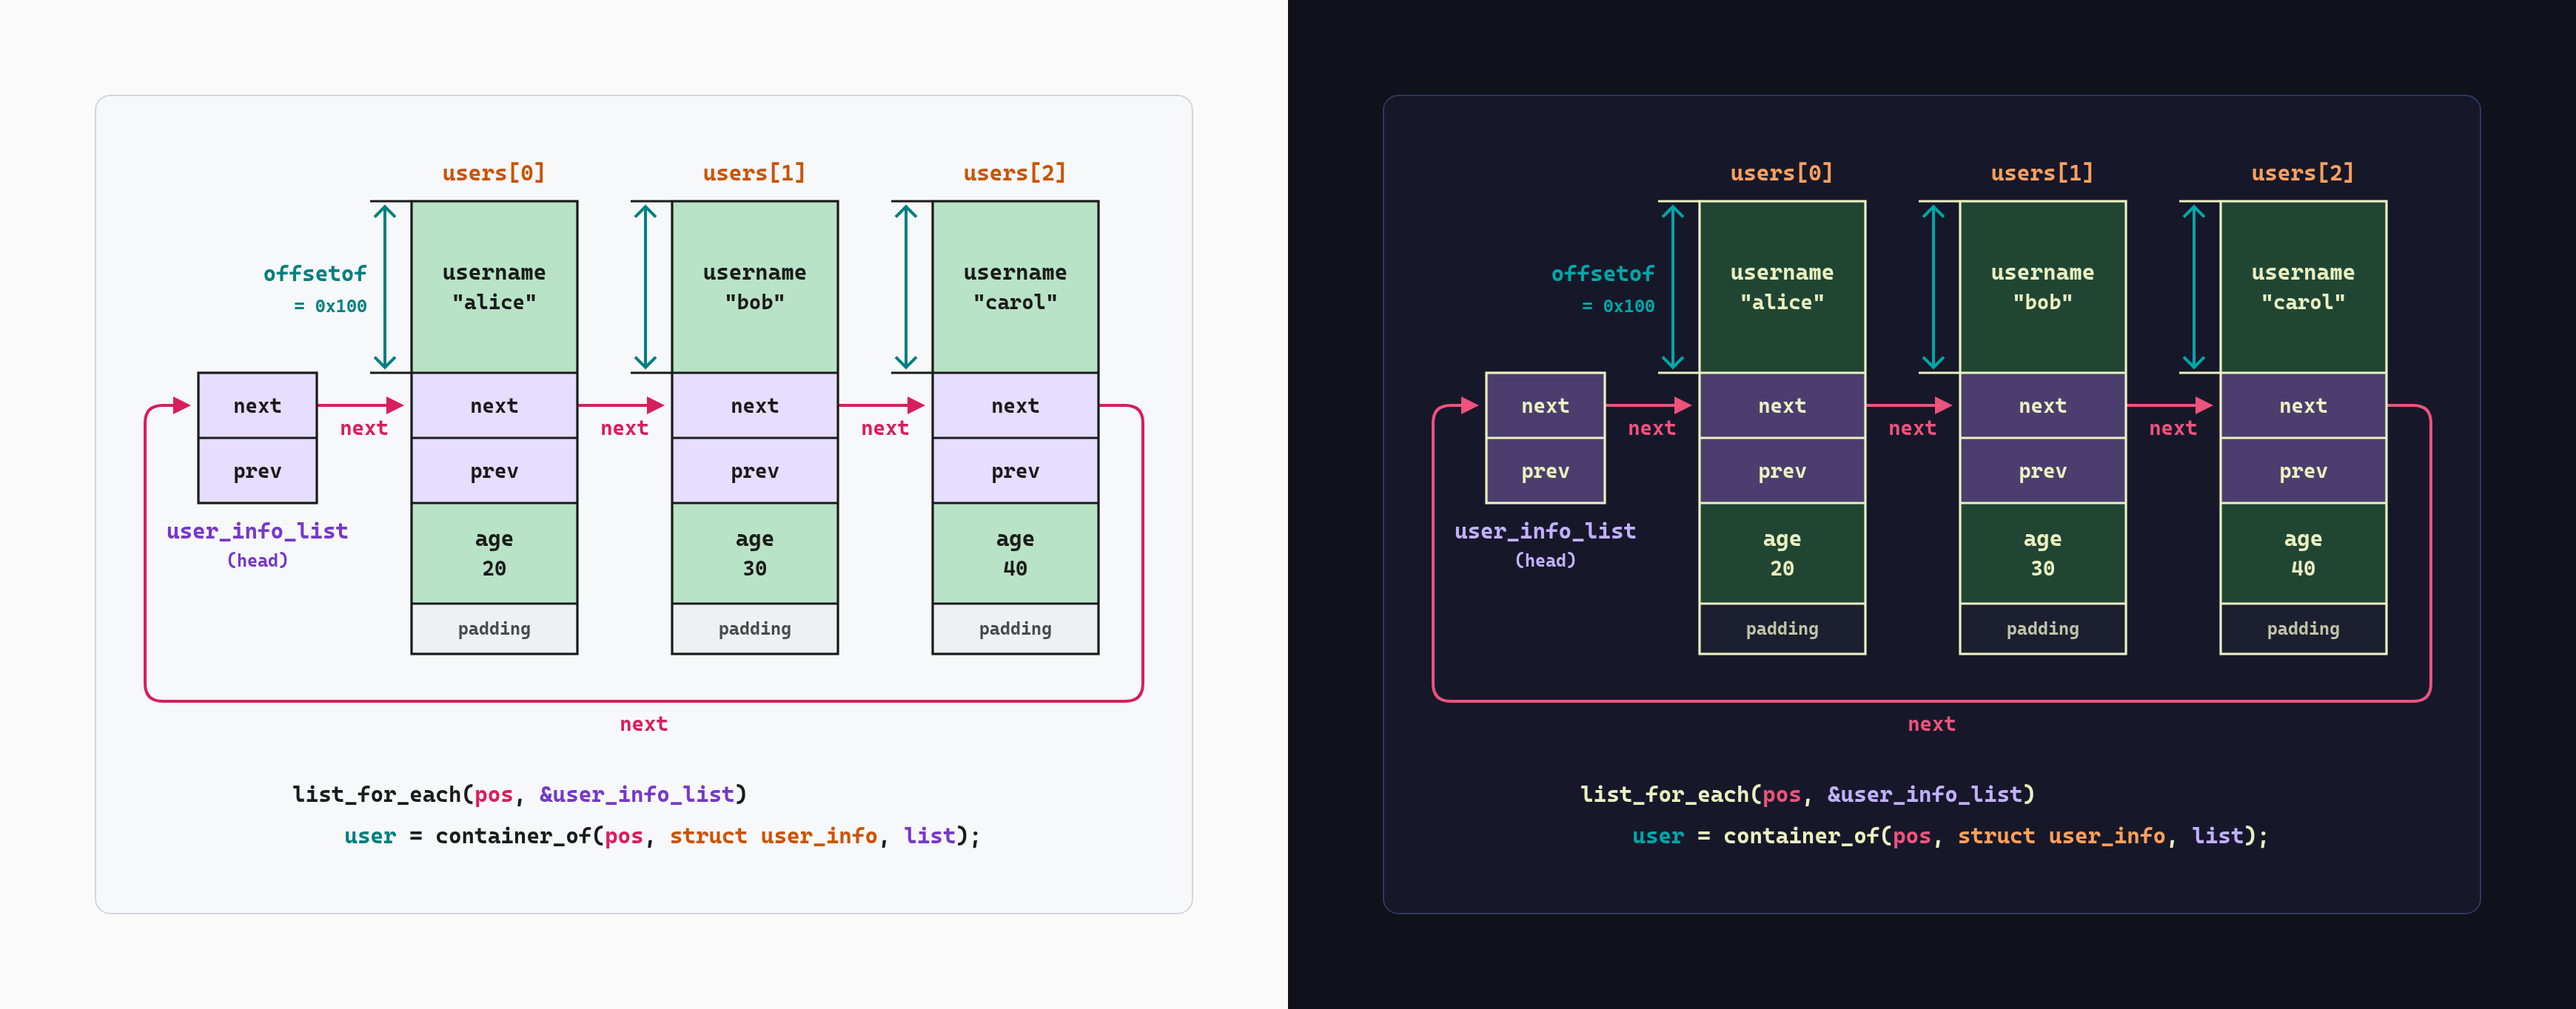
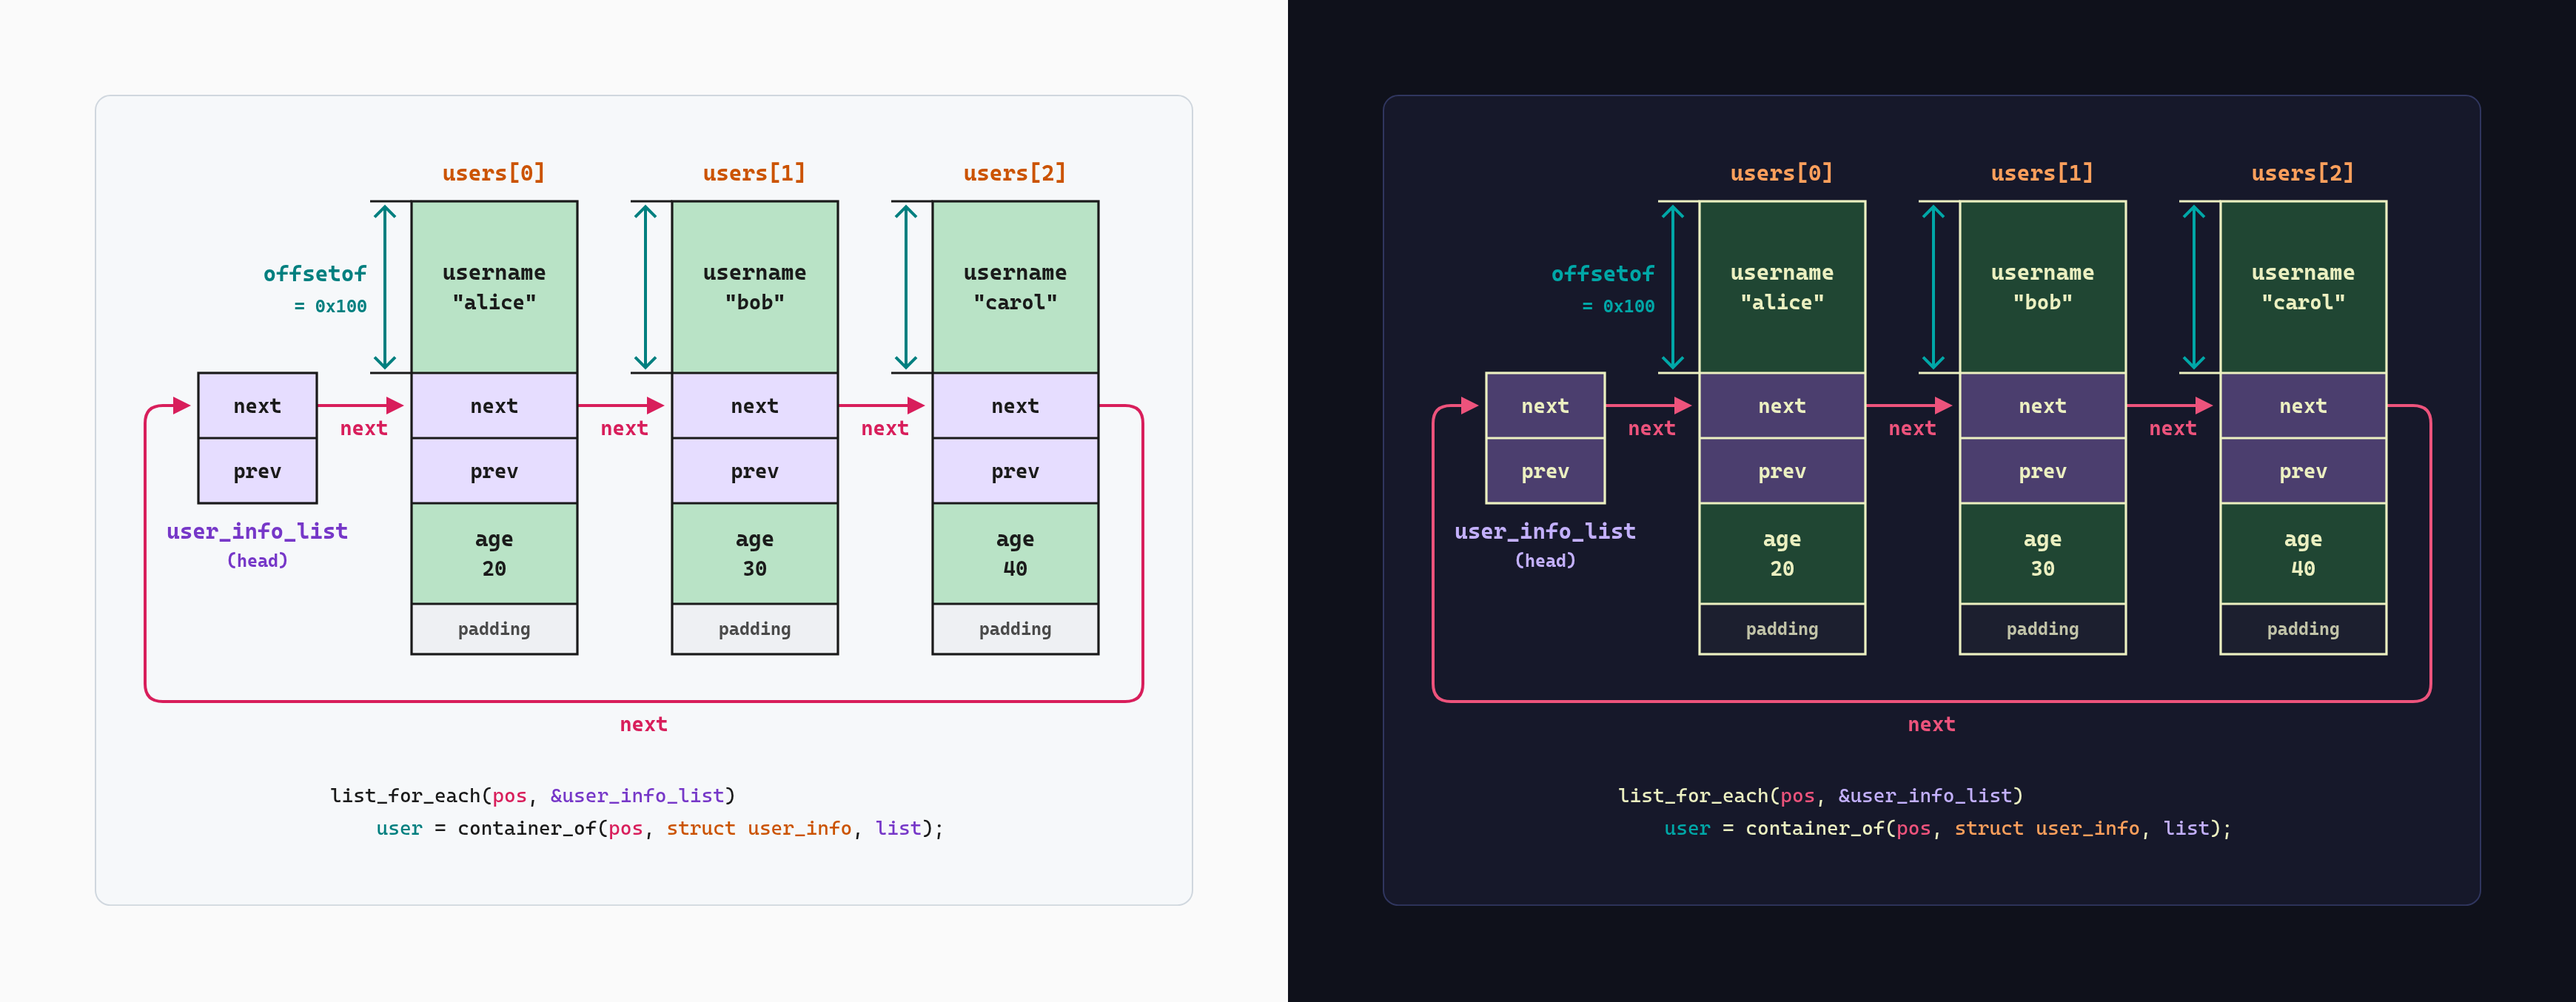
feat: set code lines like the page's code blocks

diff --git a/src/memory-layout.ts b/src/memory-layout.ts
@@ -1,5 +1,5 @@
 import { arrowhead, dimension, DIMENSION_MIN, shaftEnd, triangle } from './arrow.ts';
-import { BORDER, checkText, FONT, round, STROKE, textWidth, tighten, type ProfileName, type Scene, type Shape } from './scene.ts';
+import { BORDER, checkText, CODE_SIZE, CODE_STEP, FONT, round, STROKE, textWidth, tighten, type ProfileName, type Scene, type Shape } from './scene.ts';
 import { checkTone, paint, pieces as tonePieces, type Piece, type Run, type Tone } from './tone.ts';
 import type { Paint } from './tokens.ts';
 
@@ -56,7 +56,7 @@ const RUN = 20, RADIUS = 12, LANE = 24, SIZE = 15, ARROW = 14, ADDRESS = 14;
 const INSIDE = RIGHT - LEFT - 32, OUTSIDE = ADDR - AXIS - 16, AXIS_GAP = 46, FILL = 0.6;
 const SPAN_X = RIGHT + 20, SPAN_BAR = 10, SPAN_BEND = 6, SPAN_LABEL = 14, SEAM = 0.5;
 const LABEL_GAP = 8;
-const TITLE_ROOM = 560, CODE_ROOM = WIDTH - 32, CODE_TOP = 64, CODE_STEP = 28;
+const TITLE_ROOM = 560, CODE_ROOM = WIDTH - 32, CODE_TOP = 64;
 const SPEC_KEYS = new Set(['id', 'label', 'title', 'regions', 'spans', 'code']);
 const KEYS = new Set(['id', 'value', 'word', 'gap', 'sub', 'start', 'marker', 'tone', 'to', 'size', 'h']);
 const SPAN_KEYS = new Set(['from', 'to', 'label', 'sub', 'tone', 'shape']);
@@ -67,7 +67,7 @@ type Kind = 'value' | 'word' | 'gap';
 
 const name = (region: Region, i: number) => `regions[${i}]${region.id ? ` (${region.id})` : ''}`;
 const kind = (region: Region): Kind => (region.gap ? 'gap' : region.value !== undefined ? 'value' : 'word');
-const pieces = (value: unknown, where: string, room: number): Piece[] => tonePieces(value, where, room, SIZE);
+const pieces = (value: unknown, where: string, room: number, size = SIZE): Piece[] => tonePieces(value, where, room, size);
 const notes = (span: Span): string[] => (span.sub === undefined ? [] : Array.isArray(span.sub) ? span.sub : [span.sub]);
 
 function upper(spec: MemoryLayout, t: number): bigint | null {
@@ -140,7 +140,7 @@ export function validate(spec: MemoryLayout): void {
   if (spec.title !== undefined) pieces(spec.title, 'title', TITLE_ROOM);
   if (spec.code !== undefined) {
     if (!Array.isArray(spec.code) || !spec.code.length) throw new Error('code: must be a non-empty list of lines');
-    spec.code.forEach((line, i) => pieces(line, `code[${i}]`, CODE_ROOM));
+    spec.code.forEach((line, i) => pieces(line, `code[${i}]`, CODE_ROOM, CODE_SIZE));
   }
   if (spec.spans === undefined) return;
   if (!Array.isArray(spec.spans) || !spec.spans.length) throw new Error('spans: must be a non-empty list');
@@ -174,8 +174,8 @@ export function layout(spec: MemoryLayout, profile: Profile = PROFILES.blog): Sc
   const text = (x: number, y: number, body: string, size: number, bold: boolean, anchor: 'start' | 'middle' | 'end', fill: Paint = 'diagram-ink') =>
     shapes.push({ kind: 'text', x, y, text: body, size, bold, anchor, fill });
   const line = (x1: number, y1: number, x2: number, y2: number) => shapes.push({ kind: 'line', x1, y1, x2, y2, stroke: 'diagram-ink' });
-  const runs = (x: number, y: number, list: Piece[]) =>
-    shapes.push({ kind: 'runs', x, y, size: SIZE, bold: true, anchor: 'middle', runs: list.map((p) => ({ text: p.text, fill: paint(p.tone, 'diagram-ink') })) });
+  const runs = (x: number, y: number, list: Piece[], code = false) =>
+    shapes.push({ kind: 'runs', x, y, size: code ? CODE_SIZE : SIZE, code, anchor: 'middle', runs: list.map((p) => ({ text: p.text, fill: paint(p.tone, 'diagram-ink') })) });
 
   let y = TOP;
   const rows = spec.regions.map((region) => {
@@ -330,8 +330,8 @@ export function layout(spec: MemoryLayout, profile: Profile = PROFILES.blog): Sc
     text(a.leg + 8, round((a.tail + a.head) / 2 + 3), a.label, ARROW, true, 'start');
   }
 
-  const code = (spec.code ?? []).map((list, i) => pieces(list, `code[${i}]`, CODE_ROOM));
-  code.forEach((list, i) => runs(mid, round(bottom + CODE_TOP + i * CODE_STEP), list));
+  const code = (spec.code ?? []).map((list, i) => pieces(list, `code[${i}]`, CODE_ROOM, CODE_SIZE));
+  code.forEach((list, i) => runs(mid, round(bottom + CODE_TOP + i * CODE_STEP), list, true));
   const height = code.length ? round(bottom + CODE_TOP + (code.length - 1) * CODE_STEP + 24) : round(bottom + 44);
   return tighten({ width: WIDTH, height, label: spec.label, font: FONT, shapes: [...brackets, ...dimensions, ...shapes], frame: profile.frame }, EDGE);
 }

diff --git a/src/scene.ts b/src/scene.ts
@@ -15,7 +15,7 @@ export type Shape =
   | { kind: 'path'; d: string; fill: Paint; stroke?: never }
   | { kind: 'path'; d: string; stroke: Paint; fill?: never; weight?: Weight }
   | { kind: 'text'; x: number; y: number; text: string; size: number; bold?: boolean; anchor: Anchor; fill: Paint }
-  | { kind: 'runs'; x: number; y: number; runs: Array<{ text: string; fill: Paint }>; size: number; bold?: boolean; anchor: Anchor };
+  | { kind: 'runs'; x: number; y: number; runs: Array<{ text: string; fill: Paint }>; size: number; code?: boolean; anchor: Anchor };
 
 export interface Scene {
   width: number;
@@ -33,6 +33,7 @@ export interface StaticOptions {
 }
 
 export const FONT = 'code-mono';
+export const CODE_SIZE = 13.4, CODE_STEP = 22.1;
 export const BORDER = 1.6, STROKE = 2;
 export const CORNER = 8;
 const ADVANCE = 0.6, HANGUL_ADVANCE = 0.864;
@@ -97,6 +98,7 @@ function cornerPath(x: number, y: number, w: number, h: number, [tl, tr, br, bl]
 const rounded = (s: { corners?: Corners }) => !!s.corners?.some(Boolean);
 
 const space = (s: string) => (/ {2}|^ | $/.test(s) ? ' xml:space="preserve"' : '');
+const weight = (s: { code?: boolean }) => (s.code ? ' font-weight="400"' : '');
 const fill = (name: Paint) => `style="fill:var(--${name})"`;
 const stroke = (name: Paint, weight: Weight) => `style="stroke:var(--${name});stroke-width:var(--diagram-${weight})"`;
 const lineWeight = (s: Shape): Weight => (s.kind === 'outline' ? 'border' : s.kind === 'line' ? s.weight ?? 'border' : s.kind === 'path' && !s.fill ? s.weight ?? 'stroke' : 'stroke');
@@ -109,7 +111,7 @@ export function toWeb(scene: Scene): string {
       case 'line': return `<line x1="${s.x1}" y1="${s.y1}" x2="${s.x2}" y2="${s.y2}" ${stroke(s.stroke, lineWeight(s))}/>`;
       case 'path': return s.fill ? `<path d="${s.d}" ${fill(s.fill)}/>` : `<path d="${s.d}" fill="none" ${stroke(s.stroke, lineWeight(s))}/>`;
       case 'text': return `<text x="${s.x}" y="${s.y}" font-size="${s.size}" text-anchor="${s.anchor}"${space(s.text)} ${fill(s.fill)}>${esc(s.text)}</text>`;
-      case 'runs': return `<text x="${s.x}" y="${s.y}" font-size="${s.size}" text-anchor="${s.anchor}" xml:space="preserve">${s.runs.map((r) => `<tspan ${fill(r.fill)}>${esc(r.text)}</tspan>`).join('')}</text>`;
+      case 'runs': return `<text x="${s.x}" y="${s.y}" font-size="${s.size}"${weight(s)} text-anchor="${s.anchor}" xml:space="preserve">${s.runs.map((r) => `<tspan ${fill(r.fill)}>${esc(r.text)}</tspan>`).join('')}</text>`;
     }
   });
   return `<svg xmlns="http://www.w3.org/2000/svg" class="mem-diagram" viewBox="${scene.x ?? 0} 0 ${scene.width} ${scene.height}" style="--diagram-width:${scene.width}" font-family="${scene.font}, hangul-sans, monospace" font-weight="700" role="img" aria-label="${esc(scene.label)}">\n  ${body.join('\n  ')}\n</svg>`;
@@ -148,7 +150,7 @@ export function toStatic(scene: Scene, tokens: Tokens, theme: string, options: S
         break;
       }
       case 'runs':
-        out.push(`<text x="${s.x}" y="${s.y}" font-family="${family(scene.font)}" font-size="${s.size}" text-anchor="${s.anchor}" xml:space="preserve">${s.runs.map((r) => `<tspan fill="${paint(r.fill)}">${esc(r.text)}</tspan>`).join('')}</text>`);
+        out.push(`<text x="${s.x}" y="${s.y}" font-family="${family(scene.font)}" font-size="${s.size}"${weight(s)} text-anchor="${s.anchor}" xml:space="preserve">${s.runs.map((r) => `<tspan fill="${paint(r.fill)}">${esc(r.text)}</tspan>`).join('')}</text>`);
         break;
     }
   }

diff --git a/src/struct-chain.ts b/src/struct-chain.ts
@@ -1,5 +1,5 @@
 import { arrowhead, dimension, DIMENSION_MIN, shaftEnd } from './arrow.ts';
-import { checkText, FONT, round, textWidth, tighten, type ProfileName, type Scene, type Shape } from './scene.ts';
+import { checkText, CODE_SIZE, CODE_STEP, FONT, round, textWidth, tighten, type ProfileName, type Scene, type Shape } from './scene.ts';
 import { checkTone, paint, pieces, WASHES, type Run, type Tone } from './tone.ts';
 import type { Paint } from './tokens.ts';
 
@@ -51,7 +51,7 @@ export const PROFILES: Record<ProfileName, Profile> = {
 const WIDTH = 700, MARGIN = 10, LABEL = 34, TOP = 48, SIZE = 15, VALUE = 14, CELL = 14, ARROW = 14;
 const BOX = 108, HEAD_BOX = 80, INSET = 20, GAP = 64, RADIUS = 12;
 const ENTRY = 24, WRAP = 30, LOOP = 32, ARROW_LABEL = 20;
-const DIM_X = 18, DIM_BAR = 10, DIM_LABEL = 12, CODE_TOP = 48, CODE_STEP = 28;
+const DIM_X = 18, DIM_BAR = 10, DIM_LABEL = 12, CODE_TOP = 48;
 const SPEC_KEYS = new Set(['id', 'label', 'fields', 'link', 'nodes', 'head', 'tones', 'code']);
 const ROLES: Role[] = ['node', 'link', 'walk', 'offset'];
 
@@ -254,10 +254,10 @@ export function layout(spec: StructChain, profile: Profile = PROFILES.blog): Sce
     after = round(yb + ARROW_LABEL);
   }
 
-  const code = (spec.code ?? []).map((list, i) => pieces(list, `code[${i}]`, WIDTH - 32, SIZE));
-  const widest = Math.max(0, ...code.map((list) => textWidth(list.map((p) => p.text).join(''), SIZE)));
+  const code = (spec.code ?? []).map((list, i) => pieces(list, `code[${i}]`, WIDTH - 32, CODE_SIZE));
+  const widest = Math.max(0, ...code.map((list) => textWidth(list.map((p) => p.text).join(''), CODE_SIZE)));
   code.forEach((list, i) => shapes.push({
-    kind: 'runs', x: round((WIDTH - widest) / 2), y: round(after + CODE_TOP + i * CODE_STEP), size: SIZE, bold: true, anchor: 'start',
+    kind: 'runs', x: round((WIDTH - widest) / 2), y: round(after + CODE_TOP + i * CODE_STEP), size: CODE_SIZE, code: true, anchor: 'start',
     runs: list.map((p) => ({ text: p.text, fill: paint(p.tone, ink) })),
   }));
   const height = code.length ? round(after + CODE_TOP + (code.length - 1) * CODE_STEP + 24) : round(after + 24);

diff --git a/test/dg.test.ts b/test/dg.test.ts
@@ -91,6 +91,9 @@ test('tones, spans, a title and code lines take theme roles', () => {
   assert.match(svg, /style="fill:var\(--diagram-purple\)">member: b<\/text>/);
   assert.match(svg, /style="fill:var\(--diagram-red\)">ptr: p<\/text>/);
   assert.match(svg, /<tspan style="fill:var\(--diagram-red\)">p<\/tspan><tspan style="fill:var\(--diagram-ink\)"> - 0x8 = <\/tspan><tspan style="fill:var\(--diagram-blue\)">0x1000<\/tspan>/);
+  assert.match(svg, /font-size="15" text-anchor="middle" xml:space="preserve"><tspan style="fill:var\(--diagram-orange\)">type: struct s/);
+  assert.match(svg, /font-size="13.4" font-weight="400" text-anchor="middle" xml:space="preserve"><tspan style="fill:var\(--diagram-red\)">p<\/tspan>/);
+  assert.match(toStatic(scene, tokens, 'clean-light'), /font-size="13.4" font-weight="400" text-anchor="middle" xml:space="preserve"><tspan fill="#d81e5b">p<\/tspan>/);
   assert.deepEqual(lintStatic(toStatic(scene, tokens, 'clean-light')), []);
   assert.throws(() => memoryLayout.layout({ ...spec, spans: [{ from: 'a', to: 'b', label: 'x' }] }), /from must be at or above to/);
   assert.throws(() => memoryLayout.layout({ ...spec, code: [[['p', 'teal' as memoryLayout.Tone]]] }), /unknown tone "teal"/);

diff --git a/README.md b/README.md
@@ -12,7 +12,7 @@ Diagrams as code for [vmfault.dev](https://vmfault.dev) posts and slide decks. E
 
 Each folder holds `prompt.md` (how to write the source, for a person or a model), `example.*` and `mockup.png` (clean-light left, spaceduck right).
 
-All five share the form of the memory-layout figure: ink lines 2 wide with box borders 1.6 wide, roomy boxes whose labels fill at most about 60 % of their width, opaque area and gap fills, bold Cascadia Code labels, 12-unit triangle arrowheads on pointers, open right-angle arrowheads on dimension lines, radius-12 bends and the code-block frame. A pointer's arrowhead stops 5 units short of the line or box it points at, and a dimension line's open arrowhead 1.5 units short of its extension line, so neither touches it. The JSON forms draw them there, and the blog's script moves each Mermaid arrowhead back to that distance. That form, the stroke weights and the layout are the design and stay fixed.
+All five share the form of the memory-layout figure: ink lines 2 wide with box borders 1.6 wide, roomy boxes whose labels fill at most about 60 % of their width, opaque area and gap fills, bold Cascadia Code labels, code lines set like the page's code blocks (regular weight, 13.4 units on a 22.1-unit step), 12-unit triangle arrowheads on pointers, open right-angle arrowheads on dimension lines, radius-12 bends and the code-block frame. A pointer's arrowhead stops 5 units short of the line or box it points at, and a dimension line's open arrowhead 1.5 units short of its extension line, so neither touches it. The JSON forms draw them there, and the blog's script moves each Mermaid arrowhead back to that distance. That form, the stroke weights and the layout are the design and stay fixed.
 
 Strokes join without seams, notches or hairline gaps at any zoom, because anti-aliasing shows each of them. A stroke that ends on another shape ends on its center line or under it, never on its edge. Lines that turn a corner are one path with a mitered join, never two butt ends. Where a mark meets a reference line, the reference line stays in front: an outline, separator or extension line is painted over the bracket or shaft that touches it, and the mark rests on its edge instead of hiding under its middle. No gap is narrower than 1 unit, and two fills meet only under a stroke. `lintJoins` (`src/joins.ts`) finds each of these in a scene, and the tests run it on every example. For Mermaid, the blog's script routes flowchart edges orthogonally: straight when the boxes line up, otherwise one bend between ranks, entering a box at least 16 units from its corners. It also starts sequence messages at the lifeline's center, squares the dashes of frames so their corners close, and clears the lifelines behind frame conditions and message labels.
 
